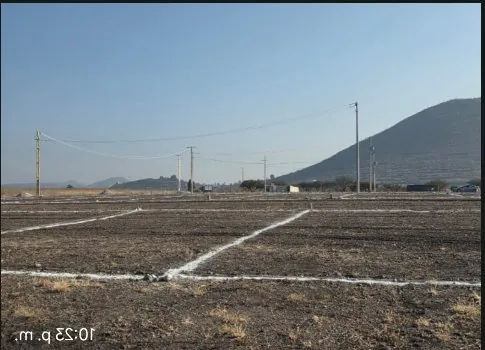
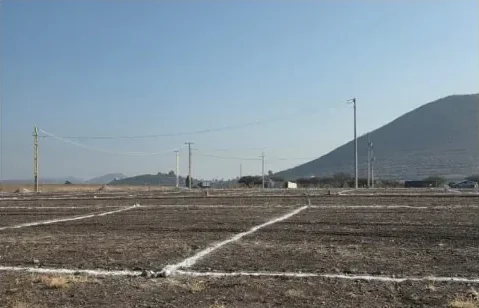
Usar foto del terreno como portada en lugar del plano
- Amazcala y Pie de Gallo: portada = foto 1; Begoña: foto 2
- Foto de Pie de Gallo sin la hora ("10:23 p. m.")
- tarjeta.imagen acepta el número de foto de portada; Ubicación usa la misma

Changed region(s): [[0.0, 0.0, 1.0, 1.0]]

diff --git a/js/main.js b/js/main.js
@@ -39,6 +39,7 @@ window.addEventListener('load', () => {
 //  - id:        nombre de la carpeta en images/<id>/
 //  - categoria: 'propio' (Mis terrenos) u 'otro' (Otros proyectos)
 //  - tarjeta:   lo que se ve en la tarjeta de la página
+//               (imagen: número de foto de portada, 'plano', o nada = foto 1)
 //  - Para quitar un terreno, borra su bloque { ... }
 // ===================================================
 const WHATSAPP = '524425949691';
@@ -55,7 +56,6 @@ const terrenos = [
     plano: true,
     pdf: 'docs/amazcala.pdf',
     tarjeta: {
-      imagen: 'plano',
       etiquetas: ['120 m²', 'Posesión inmediata', 'Alta plusvalía'],
       precio: '$389,000',
       nota: 'crédito disponible',
@@ -119,7 +119,6 @@ const terrenos = [
     plano: true,
     pdf: 'docs/pie-de-gallo.pdf',
     tarjeta: {
-      imagen: 'plano',
       etiquetas: ['120 m²', '8 × 15 m', 'Trato directo'],
       precio: '$355,000',
       nota: 'crédito a 6 años',
@@ -150,7 +149,7 @@ const terrenos = [
     plano: true,
     pdf: 'docs/begona.pdf',
     tarjeta: {
-      imagen: 'plano',
+      imagen: 2,
       etiquetas: ['200 m²', 'Propiedad privada', 'Zona estratégica'],
       precio: '$270,000',
       nota: '· contado $220,000',
@@ -321,7 +320,7 @@ function crearTarjeta(t, index, posicion) {
   });
 
   const tj = t.tarjeta;
-  const imagen = tj.imagen === 'plano' ? rutaPlano(t) : rutaFoto(t, 1);
+  const imagen = tj.imagen === 'plano' ? rutaPlano(t) : rutaFoto(t, tj.imagen || 1);
   const titulo = tj.titulo || t.nombre;
   const etiqueta = tj.etiqueta || 'Disponible';
 
@@ -355,7 +354,7 @@ function crearMapa(t) {
         </div>
       </div>
       <div class="mapa-foto-lateral">
-        <img loading="lazy" src="${rutaFoto(t, 1)}" alt="${t.nombre}" />
+        <img loading="lazy" src="${rutaFoto(t, typeof t.tarjeta.imagen === 'number' ? t.tarjeta.imagen : 1)}" alt="${t.nombre}" />
       </div>
     </div>`;
   return bloque;
